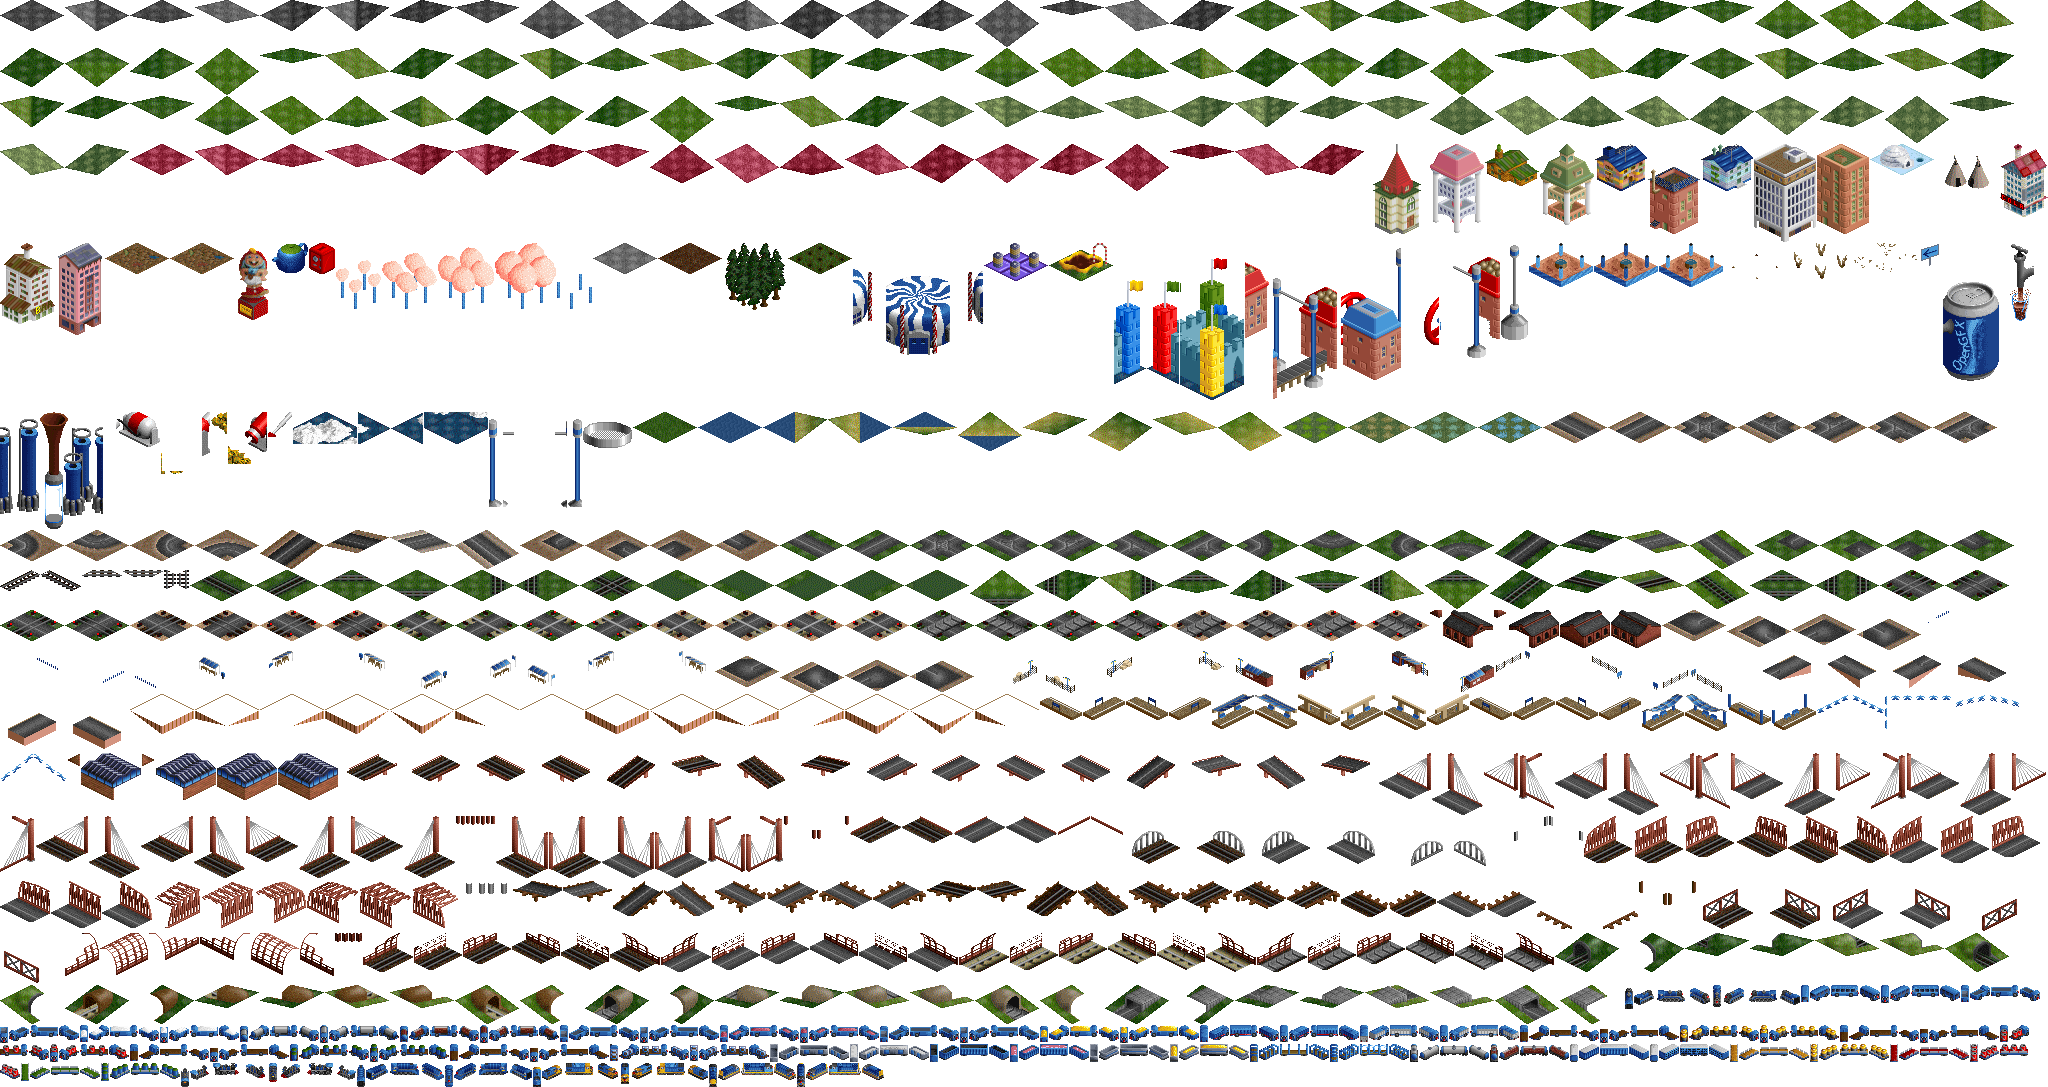
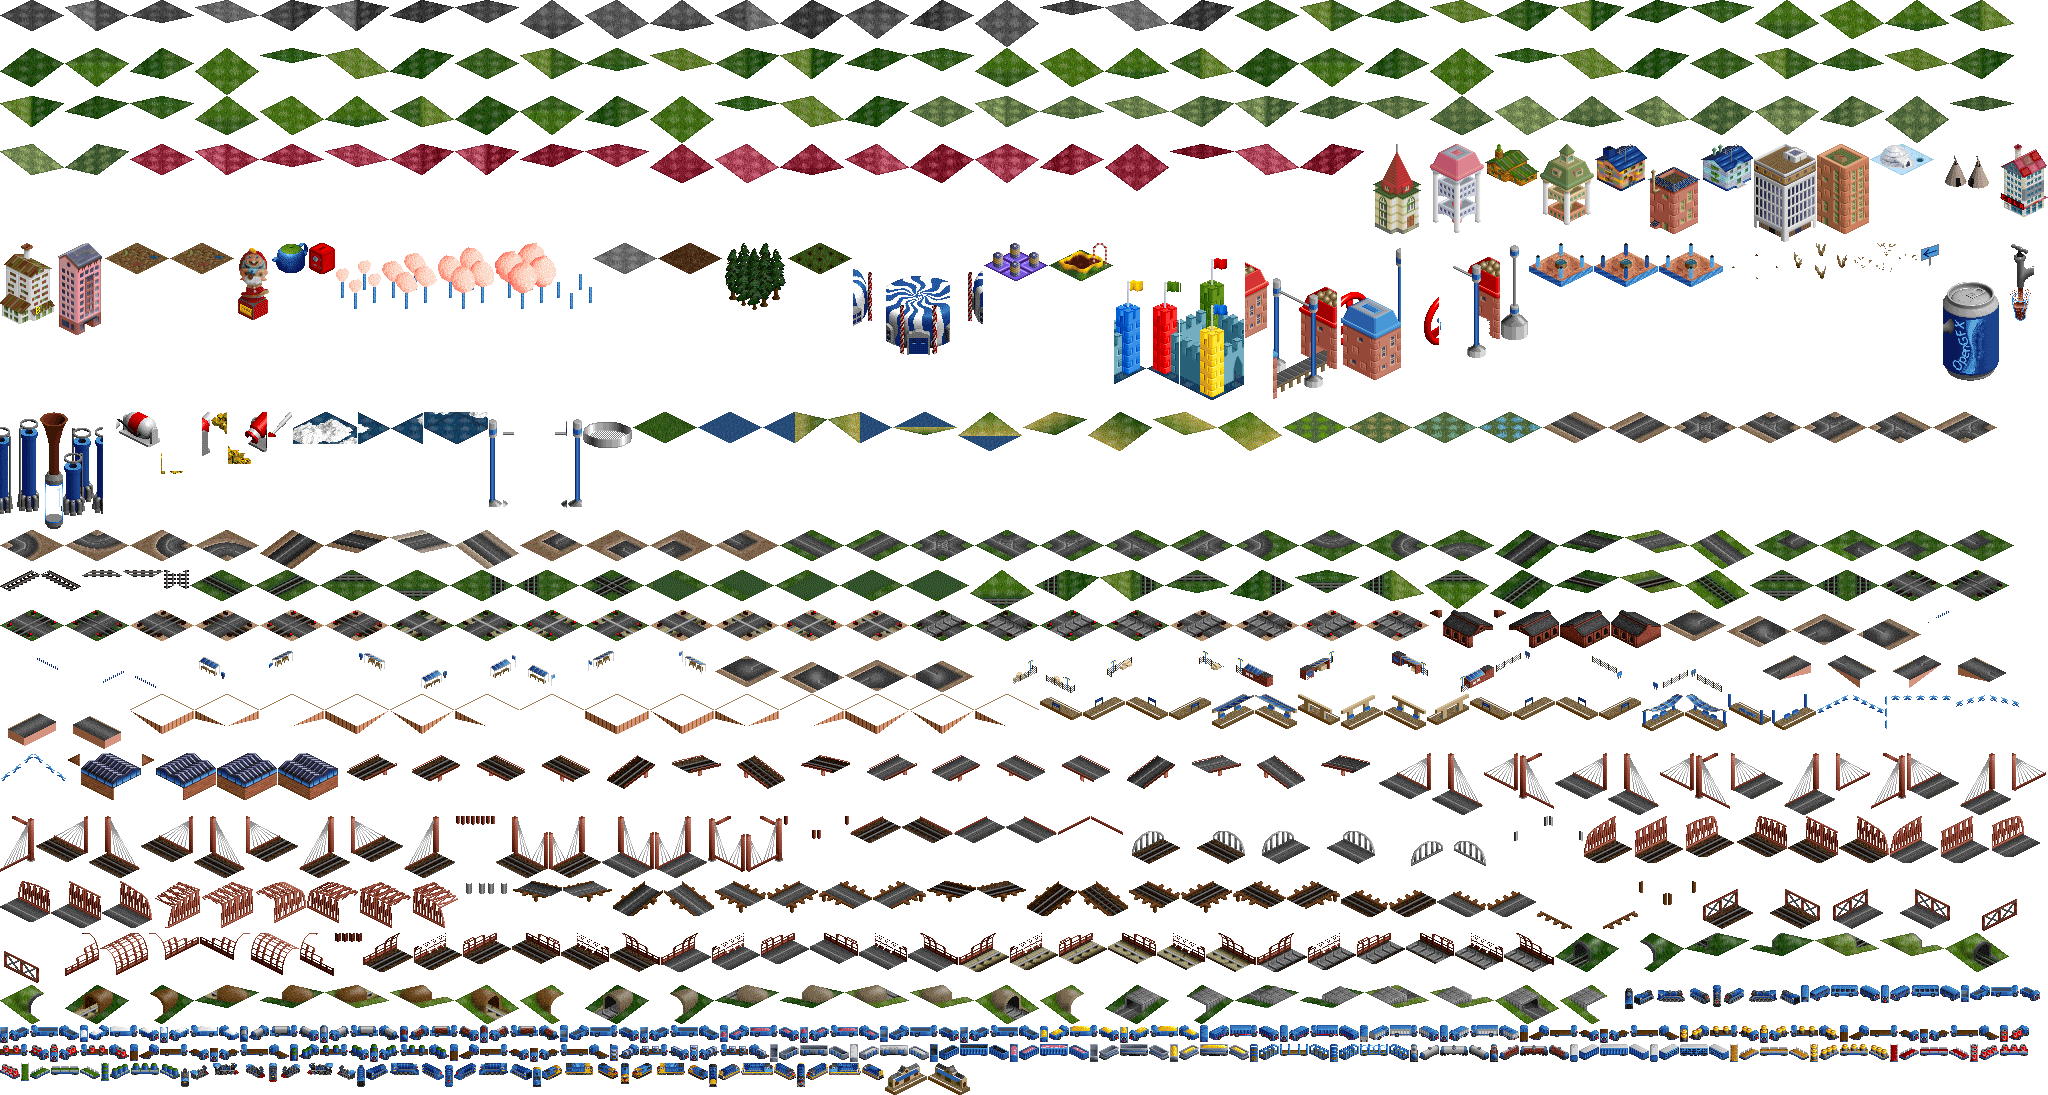
TY6: toyland brick station building uses OpenGFX toyland 581/582 (size/anchor match; TY4 mapped wrong-size 561/562); drop mis-sized 1079-1086 mapping; packed keys unchanged

diff --git a/js/renderer/pack/toyland_overrides.js b/js/renderer/pack/toyland_overrides.js
@@ -5,7 +5,8 @@
  * the base definitions (tools/ogfx/pnml.js readSpriteDefs), except where noted in the comment.
  * Shared by the extractor (tools/ogfx/extract_toyland.js, which packs these toyland ids) and the runtime view
  * (pack/toyland.js, which redirects the base ids). Blocks with no verified base counterpart are left out
- * (streetlights 172-173, signals 271-286, monorail/maglev, GUI, bridge block 1066-1145, rail stations 575-586).
+ * (streetlights 172-173, signals 271-286 (drawn procedurally, no sprite), monorail/maglev 206-244 (the game has no such track),
+ * GUI, bridge block 1066-1145, rail stations 575-580 and 1087-1098 (no verified base counterpart)).
  * GPL-2.0 (OpenGFX).
  */
 export const TOYLAND_OVERRIDE_BLOCKS = [
@@ -14,8 +15,9 @@ export const TOYLAND_OVERRIDE_BLOCKS = [
   [0, 56, 3924], [57, 75, 3981], [76, 84, 4061], [86, 108, 4000], [109, 127, 4023],
   // city roads 134-152 -> 1313, roads 153-171 -> 1332, rail 174-205 -> 1005
   [134, 152, 1313], [153, 171, 1332], [174, 205, 1005],
-  // rail level crossings 287-298 -> 1370, 299-310 -> 1382, rail depot 311-316 -> 1063, rail stations 557-574 -> 1069
-  [287, 298, 1370], [299, 310, 1382], [311, 316, 1063], [557, 574, 1069],
+  // rail level crossings 287-298 -> 1370, 299-310 -> 1382, rail depot 311-316 -> 1063, rail stations 557-560 -> 1069,
+  // 563-566 -> 1075 (size and anchor verified)
+  [287, 298, 1370], [299, 310, 1382], [311, 316, 1063], [557, 560, 1069], [563, 566, 1075],
   // rail fences 587-594 -> 1301 (anchors differ by 1px; the toyland anchors are used)
   [587, 594, 1301],
   // bus stops 476-491 -> 2692, truck stops 492-507 -> 2708, docks 508-513 -> 2727
@@ -28,4 +30,19 @@ export const TOYLAND_OVERRIDE_BLOCKS = [
   [902, 1057, 2437],
   // rail tunnels 1146-1169 -> 2365, road tunnels 1170-1177 -> 2389
   [1146, 1169, 2365], [1170, 1177, 2389],
+  // TY6 brick station buildings 581-582 -> 1073/1074: see TOYLAND_LATE_BLOCKS
+  [581, 582, 1073],
 ];
+
+/**
+ * Toyland ids packed by the extractor but not mapped in the view (TY6): their size/anchor does not match a base
+ * sprite (561-562 and 567-574 against base 1073-1086). Same [toylandFirst, toylandLast, baseFirst] form; baseFirst
+ * is the nominal slot, unused at runtime.
+ */
+export const TOYLAND_PACK_ONLY_BLOCKS = [[561, 562, 1073], [567, 574, 1079]];
+
+/**
+ * TY6 late blocks: packed after the vehicles (order 450000+) so earlier atlas positions do not move, and mapped in the view.
+ * 581-582 are the brick station buildings (base 1073/1074, drawn by pack/transport.js); size and anchor match exactly.
+ */
+export const TOYLAND_LATE_BLOCKS = [[581, 582, 1073]];

diff --git a/tools/ogfx/extract_toyland.js b/tools/ogfx/extract_toyland.js
@@ -14,7 +14,7 @@ import { fileURLToPath } from 'node:url';
 import { decodePng, encodePng } from './png.js';
 import { readSpriteDefs } from './pnml.js';
 import { TOYLAND_HOUSES, TOYLAND_INDUSTRY_GFX, TOYLAND_INDUSTRY_CHILDREN } from '../../js/renderer/pack/toyland_table.js';
-import { TOYLAND_OVERRIDE_BLOCKS } from '../../js/renderer/pack/toyland_overrides.js';
+import { TOYLAND_OVERRIDE_BLOCKS, TOYLAND_PACK_ONLY_BLOCKS, TOYLAND_LATE_BLOCKS } from '../../js/renderer/pack/toyland_overrides.js';
 
 const here = dirname(fileURLToPath(import.meta.url));
 const args = process.argv.slice(2);
@@ -117,9 +117,10 @@ for (const id of [...indIds].sort((a, b) => a - b)) {
 // toyland.js, verified by sprite size/anchor); the composite view in toyland.js redirects base ids to these keys.
 // Packed last (order 300000+) so every existing pack entry keeps its atlas position and pixels (TY3 lesson).
 const tdefs = readSpriteDefs(SRC, 'toyland');
-for (const [a, b] of TOYLAND_OVERRIDE_BLOCKS) {
+const lateIds = new Set(TOYLAND_LATE_BLOCKS.flatMap(([a, b]) => Array.from({ length: b - a + 1 }, (_, i) => a + i)));
+for (const [a, b] of [...TOYLAND_OVERRIDE_BLOCKS, ...TOYLAND_PACK_ONLY_BLOCKS]) {
   for (let id = a; id <= b; id++) {
-    if (pieces.some((p) => p.key === String(id))) continue;
+    if (pieces.some((p) => p.key === String(id)) || lateIds.has(id)) continue;
     const d = tdefs.get(id);
     if (!d) throw new Error(`toyland infra sprite ${id} has no OpenGFX definition`);
     pieces.push({ key: String(id), order: 300000 + id, file: d.file, x: d.x, y: d.y, w: d.w, h: d.h, xo: d.xo, yo: d.yo });
@@ -158,6 +159,16 @@ for (const id of toylandVehicleSprites()) {
   const d = tdefs.get(id);
   if (!d) throw new Error(`toyland vehicle sprite ${id} has no OpenGFX definition`);
   pieces.push({ key: String(TOYLAND_VEH_KEY + id), order: 400000 + id, file: d.file, x: d.x, y: d.y, w: d.w, h: d.h, xo: d.xo, yo: d.yo });
+}
+
+// TY6 late infra blocks (order 450000+): packed after the vehicles so the atlas positions of every earlier key are unchanged.
+for (const [a, b] of TOYLAND_LATE_BLOCKS) {
+  for (let id = a; id <= b; id++) {
+    if (pieces.some((p) => p.key === String(id))) continue;
+    const d = tdefs.get(id);
+    if (!d) throw new Error(`toyland late infra sprite ${id} has no OpenGFX definition`);
+    pieces.push({ key: String(id), order: 450000 + id, file: d.file, x: d.x, y: d.y, w: d.w, h: d.h, xo: d.xo, yo: d.yo });
+  }
 }
 
 pieces.sort((a, b) => a.order - b.order);

diff --git a/tests/toyland.test.js b/tests/toyland.test.js
@@ -112,12 +112,19 @@ import { TOYLAND_OVERRIDE_BLOCKS } from '../js/renderer/pack/toyland_overrides.j
 describe('toyland infrastructure overrides (TY4)', () => {
   test('override map covers the road, rail, water, station, depot, bridge and tunnel ids', () => {
     const m = TOYLAND_OVERRIDE_MAP;
-    // roads (city 1313, grass 1332), rail (1005), crossings (1370, 1382), depots (1063, 1408), stations (1069)
-    for (const id of [1313, 1331, 1332, 1350, 1005, 1036, 1370, 1382, 1063, 1068, 1069, 1086, 1408, 1413]) expect(m.has(id)).toBe(true);
+    // roads (city 1313, grass 1332), rail (1005), crossings (1370, 1382), depots (1063, 1408), stations (1069, 1073 brick building, 1074)
+    for (const id of [1313, 1331, 1332, 1350, 1005, 1036, 1370, 1382, 1063, 1068, 1069, 1073, 1074, 1408, 1413]) expect(m.has(id)).toBe(true);
     // water (4061 flat, 4062.. shore), foundations (990..1003), bus/truck stops (2692.., 2708..), docks (2727..)
     for (const id of [4061, 4062, 4069, 990, 1003, 2692, 2707, 2708, 2723, 2727, 2732]) expect(m.has(id)).toBe(true);
     // bridges (2437..) and tunnels (2365.., 2389..)
     for (const id of [2437, 2592, 2365, 2388, 2389, 2396]) expect(m.has(id)).toBe(true);
+  });
+
+  test('TY6: station ids that differ in size from base 1079-1086 are not mapped; base 1073/1074 map to toyland 581/582', () => {
+    expect(TOYLAND_OVERRIDE_MAP.get(1073)).toBe(581);
+    expect(TOYLAND_OVERRIDE_MAP.get(1074)).toBe(582);
+    for (const id of [1079, 1080, 1081, 1082, 1083, 1084, 1085, 1086]) expect(TOYLAND_OVERRIDE_MAP.has(id)).toBe(false);
+    expect(has(561) && has(574)).toBe(true); // packed (kept) but not mapped
   });
 
   test('toffee quarry ground 3981 maps to toyland grass 57 (not the temperate grass)', () => {
